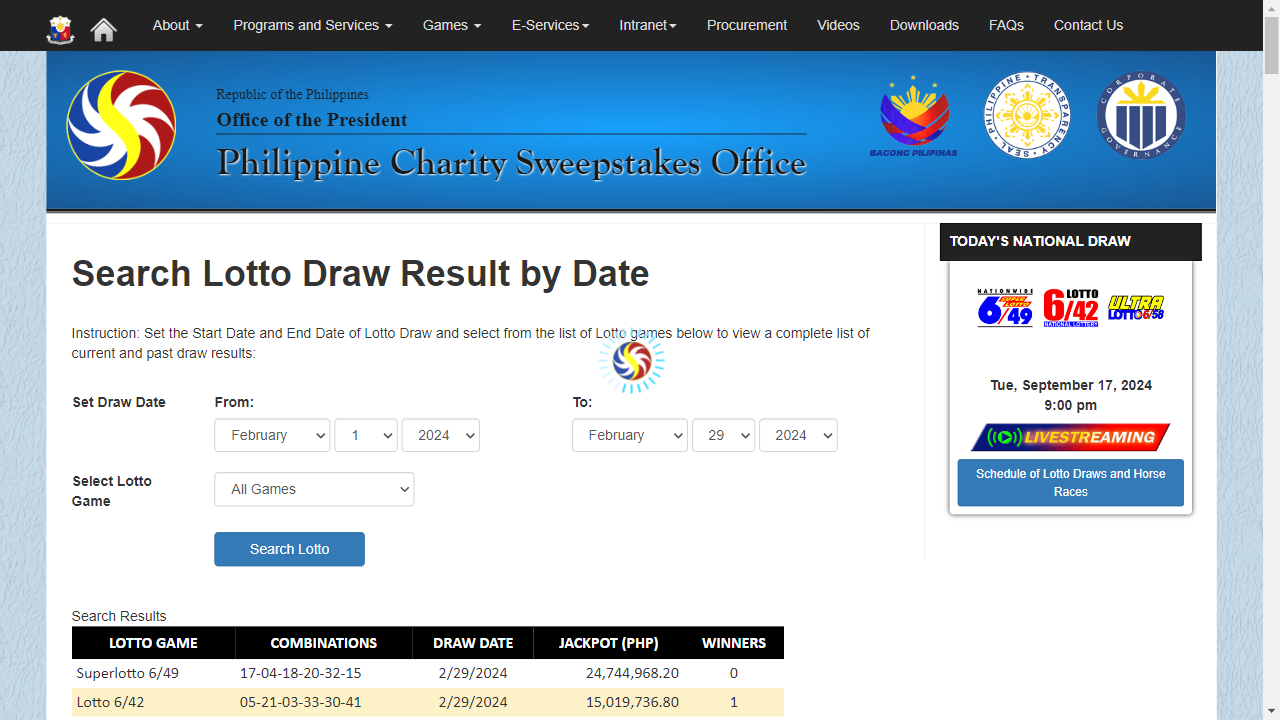
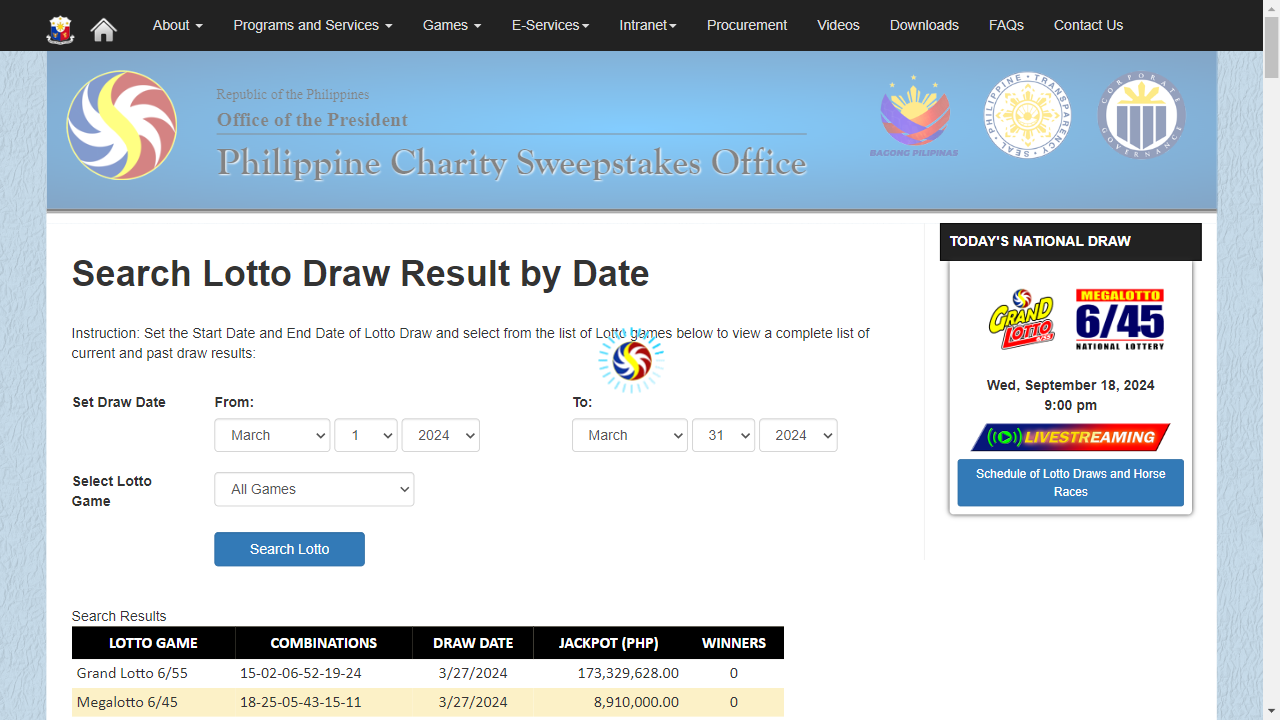
Added upload lotto result on database

diff --git a/extract_previous.py b/extract_previous.py
@@ -1,6 +1,6 @@
 from datetime import date, datetime
 from sqlalchemy.orm import Session
-from databasemanager import RawDrawResults, UploadRecordTable, engine
+from databasemanager import DrawResults, WinningCombinations, engine
 from playwright.sync_api import sync_playwright
 import decimal
 
@@ -45,32 +45,89 @@ def get_result_by_date(date_from: date, date_to: date):
             table.append(row_data)
             
         page.wait_for_timeout(2000)
-        browser.close()
+        browser.close() 
         return table
 
 
-def upload_to_db(table: list): # missing validation on duplicate upload of file.
-    
+def upload_to_db(table: list): 
     with Session(engine) as session:
-        
         for sublist in table:
             game, combinations, draw_date, jackpot, winners = sublist
+            formatted_combination = combinations.split('-')
             
-            lotto_result= RawDrawResults(raw_lotto_game=game,
-                                         raw_combinations = combinations,
-                                         raw_draw_date=datetime.strptime(draw_date, '%m/%d/%Y'),
-                                         raw_jackpot=decimal.Decimal(jackpot.replace(',','')),
-                                         raw_winners=int(winners))
+            # Check if the draw result already exists (based on game and draw date)
+            existing_result = session.query(DrawResults).filter(
+                DrawResults.raw_lotto_game == game,
+                DrawResults.raw_draw_date == datetime.strptime(draw_date, '%m/%d/%Y')
+            ).first()
+
+            if existing_result:
+                print(f"Duplicate entry found for {game} on {draw_date}. Skipping insertion.")
+                continue
+
+            # Create a new DrawResults entry
+            lotto_result = DrawResults(
+                raw_lotto_game=game,
+                raw_draw_date=datetime.strptime(draw_date, '%m/%d/%Y'),
+                raw_jackpot=decimal.Decimal(jackpot.replace(',', '')),
+                raw_winners=int(winners)
+            )
             session.add(lotto_result)
-        
+            session.flush()  # Ensure lotto_result.id is generated before using it
+
+            # Add the winning numbers for the draw
+            for number in formatted_combination:
+                winning_result = WinningCombinations(
+                    lotto_id=lotto_result.id,
+                    draw_number=int(number.rstrip())
+                )
+                session.add(winning_result)
+
+        # Commit the transaction after processing all rows
         session.commit()
+
+
+
+# def upload_to_db(table: list): # missing validation on duplicate upload of file.
+    
+#     with Session(engine) as session:
+        
+#         # winning_combination = []
+#         for sublist in table:
+#             game, combinations, draw_date, jackpot, winners = sublist
+#             formatted_combination = combinations.split('-',)
+#             lotto_result= DrawResults(raw_lotto_game=game,
+#                                          raw_draw_date=datetime.strptime(draw_date, '%m/%d/%Y'),
+#                                          raw_jackpot=decimal.Decimal(jackpot.replace(',','')),
+#                                          raw_winners=int(winners))
+#             session.add(lotto_result)
+            # session.flush()
+#             for number in  formatted_combination:
+#                 winning_result= WinningCombinations(lotto_id = DrawResults.id, draw_number=int(number.rstrip()))
+#                 session.add(winning_result)  
+                
+#             # winning_combination.append(formatted_combination)
+#         # print(winning_combination)
+        
+#         # session.flush() 
+#         # session.refresh(DrawResults)
+#         # for number in winning_combination:
+#         #     for num in number:
+#         #         value= num.rstrip()
+#         #         print(value)
+#         #         winning_result= WinningCombinations(lotto_id = DrawResults.id,draw_number=int(num))
+#         #         session.add(winning_result)
+      
+        
+#         # print(winning_combination)    
+#         session.commit()
     
 
 
 
 
-# test_data =  [['Superlotto 6/49', '17-04-18-20-32-15', '2/29/2024', '24,744,968.20', '0'], ['Lotto 6/42', '05-21-03-33-30-41', '2/29/2024', '15,019,736.80', '1'], ['6D Lotto', '0-0-7-8-1-6      ', '2/29/2024', '6,312,426.24', '0'], ['3D Lotto 2PM', '3-8-2            ', '2/29/2024', '4,500.00', '375'], ['3D Lotto 5PM', '8-8-4            ', '2/29/2024', '4,500.00', '123'], ['3D Lotto 9PM', '4-8-7            ', '2/29/2024', '4,500.00', '515'], ['2D Lotto 2PM', '12-10            ', '2/29/2024', '4,000.00', '230'], ['2D Lotto 5PM', '08-18            ', '2/29/2024', '4,000.00', '528'], ['2D Lotto 9PM', '24-29            ', '2/29/2024', '4,000.00', '400'], ['Grand Lotto 6/55', '49-37-51-36-50-10', '2/28/2024', '88,249,297.40', '0'], ['Megalotto 6/45', '41-35-18-43-33-40', '2/28/2024', '8,910,000.00', '0'], ['4D Lotto', '7-3-2-5          ', '2/28/2024', '13,421.00', '35'], ['3D Lotto 2PM', '7-3-5            ', '2/28/2024', '4,500.00', '204'], ['3D Lotto 5PM', '2-2-7            ', '2/28/2024', '4,500.00', '562'], ['3D Lotto 9PM', '8-6-5            ', '2/28/2024', '4,500.00', '331'], ['2D Lotto 2PM', '26-12            ', '2/28/2024', '4,000.00', '549'], ['2D Lotto 5PM', '18-03            ', '2/28/2024', '4,000.00', '198'], ['2D Lotto 9PM', '30-09            ', '2/28/2024', '4,000.00', '327'], ['Ultra Lotto 6/58', '09-14-37-22-13-20', '2/27/2024', '166,577,603.60', '0'], ['Superlotto 6/49', '19-03-48-31-10-43', '2/27/2024', '20,070,091.60', '0'], ['Lotto 6/42', '41-26-32-40-31-39', '2/27/2024', '10,877,076.20', '0'], ['6D Lotto', '4-0-5-2-9-7      ', '2/27/2024', '5,570,425.80', '0'], ['3D Lotto 2PM', '0-9-7            ', '2/27/2024', '4,500.00', '108'], ['3D Lotto 5PM', '2-9-1            ', '2/27/2024', '4,500.00', '99'], ['3D Lotto 9PM', '3-6-0            ', '2/27/2024', '4,500.00', '602'], ['2D Lotto 2PM', '12-08            ', '2/27/2024', '4,000.00', '406'], ['2D Lotto 5PM', '04-21            ', '2/27/2024', '4,000.00', '275'], ['2D Lotto 9PM', '26-13            ', '2/27/2024', '4,000.00', '236'], ['Grand Lotto 6/55', '22-18-35-39-48-08', '2/26/2024', '82,609,283.80', '0'], ['Megalotto 6/45', '29-07-09-20-03-26', '2/26/2024', '70,879,526.00', '2'], ['4D Lotto', '0-7-1-2          ', '2/26/2024', '10,000.00', '75'], ['3D Lotto 2PM', '0-1-9            ', '2/26/2024', '4,500.00', '495'], ['3D Lotto 5PM', '6-2-5            ', '2/26/2024', '4,500.00', '176'], ['3D Lotto 9PM', '8-9-4            ', '2/26/2024', '4,500.00', '209'], ['2D Lotto 2PM', '25-20            ', '2/26/2024', '4,000.00', '83'], ['2D Lotto 5PM', '03-22            ', '2/26/2024', '4,000.00', '222'], ['2D Lotto 9PM', '13-05            ', '2/26/2024', '4,000.00', '471'], ['Ultra Lotto 6/58', '06-33-48-56-27-35', '2/25/2024', '159,479,545.60', '0'], ['Superlotto 6/49', '20-49-43-46-44-08', '2/25/2024', '16,625,593.40', '0'], ['3D Lotto 2PM', '7-7-7            ', '2/25/2024', '4,500.00', '609'], ['3D Lotto 5PM', '6-8-3            ', '2/25/2024', '4,500.00', '93'], ['3D Lotto 9PM', '6-0-9            ', '2/25/2024', '4,500.00', '499'], ['2D Lotto 2PM', '09-09            ', '2/25/2024', '4,000.00', '970'], ['2D Lotto 5PM', '08-03            ', '2/25/2024', '4,000.00', '231'], ['2D Lotto 9PM', '12-14            ', '2/25/2024', '4,000.00', '467'], ['Grand Lotto 6/55', '42-44-01-24-47-02', '2/24/2024', '77,742,342.40', '0'], ['Lotto 6/42', '32-12-27-40-01-19', '2/24/2024', '7,433,279.40', '0'], ['6D Lotto', '1-7-4-3-8-5      ', '2/24/2024', '4,778,396.84', '0'], ['3D Lotto 2PM', '2-6-7            ', '2/24/2024', '4,500.00', '206'], ['3D Lotto 5PM', '0-4-5            ', '2/24/2024', '4,500.00', '163'], ['3D Lotto 9PM', '3-4-3            ', '2/24/2024', '4,500.00', '292'], ['2D Lotto 2PM', '31-05            ', '2/24/2024', '4,000.00', '165'], ['2D Lotto 5PM', '04-24            ', '2/24/2024', '4,000.00', '448'], ['2D Lotto 9PM', '12-06            ', '2/24/2024', '4,000.00', '446'], ['Ultra Lotto 6/58', '29-55-36-58-10-50', '2/23/2024', '151,920,834.00', '0'], ['Megalotto 6/45', '33-27-29-26-45-04', '2/23/2024', '64,871,617.60', '0'], ['4D Lotto', '0-1-6-2          ', '2/23/2024', '139,582.00', '7'], ['3D Lotto 2PM', '9-1-2            ', '2/23/2024', '4,500.00', '367'], ['3D Lotto 5PM', '1-1-9            ', '2/23/2024', '4,500.00', '607'], ['3D Lotto 9PM', '3-5-7            ', '2/23/2024', '4,500.00', '628'], ['2D Lotto 2PM', '21-02            ', '2/23/2024', '4,000.00', '105'], ['2D Lotto 5PM', '08-05            ', '2/23/2024', '4,000.00', '275'], ['2D Lotto 9PM', '01-20            ', '2/23/2024', '4,000.00', '599'], ['Superlotto 6/49', '36-11-06-46-16-17', '2/22/2024', '15,840,000.00', '0'], ['Lotto 6/42', '05-21-17-36-22-07', '2/22/2024', '5,940,000.00', '0'], ['6D Lotto', '3-5-9-8-5-1      ', '2/22/2024', '3,991,579.08', '0'], ['3D Lotto 2PM', '3-2-2            ', '2/22/2024', '4,500.00', '252'], ['3D Lotto 5PM', '6-2-7            ', '2/22/2024', '4,500.00', '245'], ['3D Lotto 9PM', '9-7-3            ', '2/22/2024', '4,500.00', '245'], ['2D Lotto 2PM', '07-18            ', '2/22/2024', '4,000.00', '325'], ['2D Lotto 5PM', '15-24            ', '2/22/2024', '4,000.00', '173'], ['2D Lotto 9PM', '04-14            ', '2/22/2024', '4,000.00', '974'], ['Grand Lotto 6/55', '15-08-02-49-50-45', '2/21/2024', '72,157,497.80', '0'], ['Megalotto 6/45', '04-06-05-12-28-22', '2/21/2024', '59,088,473.80', '0'], ['4D Lotto', '2-0-7-6          ', '2/21/2024', '39,422.00', '26'], ['3D Lotto 2PM', '3-2-2            ', '2/21/2024', '4,500.00', '395'], ['3D Lotto 5PM', '7-1-3            ', '2/21/2024', '4,500.00', '169'], ['3D Lotto 9PM', '9-4-9            ', '2/21/2024', '4,500.00', '285'], ['2D Lotto 2PM', '02-10            ', '2/21/2024', '4,000.00', '816'], ['2D Lotto 5PM', '05-06            ', '2/21/2024', '4,000.00', '272'], ['2D Lotto 9PM', '11-04            ', '2/21/2024', '4,000.00', '703'], ['Ultra Lotto 6/58', '43-08-32-01-10-42', '2/20/2024', '144,244,941.60', '0'], ['Superlotto 6/49', '23-02-05-40-26-33', '2/20/2024', '15,840,000.00', '0'], ['Lotto 6/42', '22-17-01-29-11-16', '2/20/2024', '10,990,641.60', '1'], ['6D Lotto', '7-2-5-8-8-5      ', '2/20/2024', '3,104,678.72', '0'], ['3D Lotto 2PM', '7-2-9            ', '2/20/2024', '4,500.00', '637'], ['3D Lotto 5PM', '8-2-9            ', '2/20/2024', '4,500.00', '307'], ['3D Lotto 9PM', '5-1-5            ', '2/20/2024', '4,500.00', '620'], ['2D Lotto 2PM', '20-22            ', '2/20/2024', '4,000.00', '296'], ['2D Lotto 5PM', '11-14            ', '2/20/2024', '4,000.00', '267'], ['2D Lotto 9PM', '30-16            ', '2/20/2024', '4,000.00', '117'], ['Grand Lotto 6/55', '27-55-48-54-31-03', '2/19/2024', '67,274,931.60', '0'], ['Megalotto 6/45', '18-36-11-19-05-04', '2/19/2024', '53,341,620.40', '0'], ['4D Lotto', '3-4-6-0          ', '2/19/2024', '61,397.00', '15'], ['3D Lotto 2PM', '3-8-9            ', '2/19/2024', '4,500.00', '199'], ['3D Lotto 5PM', '4-9-4            ', '2/19/2024', '4,500.00', '141'], ['3D Lotto 9PM', '2-5-6            ', '2/19/2024', '4,500.00', '602'], ['2D Lotto 2PM', '28-15            ', '2/19/2024', '4,000.00', '93'], ['2D Lotto 5PM', '05-15            ', '2/19/2024', '4,000.00', '266'], ['2D Lotto 9PM', '03-01            ', '2/19/2024', '4,000.00', '634'], ['Ultra Lotto 6/58', '55-01-20-03-58-10', '2/18/2024', '137,271,570.80', '0'], ['Superlotto 6/49', '19-28-09-49-48-25', '2/18/2024', '15,840,000.00', '0'], ['3D Lotto 2PM', '5-8-2            ', '2/18/2024', '4,500.00', '235'], ['3D Lotto 5PM', '1-0-3            ', '2/18/2024', '4,500.00', '262'], ['3D Lotto 9PM', '2-4-5            ', '2/18/2024', '4,500.00', '610'], ['2D Lotto 2PM', '26-22            ', '2/18/2024', '4,000.00', '130'], ['2D Lotto 5PM', '31-06            ', '2/18/2024', '4,000.00', '53'], ['2D Lotto 9PM', '25-08            ', '2/18/2024', '4,000.00', '369'], ['Grand Lotto 6/55', '07-46-14-54-30-44', '2/17/2024', '62,425,096.00', '0'], ['Lotto 6/42', '29-14-13-05-09-18', '2/17/2024', '7,488,195.20', '0'], ['6D Lotto', '2-0-6-5-5-4      ', '2/17/2024', '2,602,804.84', '0'], ['3D Lotto 2PM', '4-9-6            ', '2/17/2024', '4,500.00', '121'], ['3D Lotto 5PM', '6-1-8            ', '2/17/2024', '4,500.00', '359'], ['3D Lotto 9PM', '1-7-8            ', '2/17/2024', '4,500.00', '602'], ['2D Lotto 2PM', '03-03            ', '2/17/2024', '4,000.00', '947'], ['2D Lotto 5PM', '07-05            ', '2/17/2024', '4,000.00', '351'], ['2D Lotto 9PM', '22-03            ', '2/17/2024', '4,000.00', '330'], ['Ultra Lotto 6/58', '29-03-07-11-17-58', '2/16/2024', '129,732,562.40', '0'], ['Megalotto 6/45', '14-42-03-31-41-11', '2/16/2024', '47,590,816.20', '0'], ['4D Lotto', '4-9-2-4          ', '2/16/2024', '16,810.00', '24'], ['3D Lotto 2PM', '5-5-5            ', '2/16/2024', '4,500.00', '646'], ['3D Lotto 5PM', '4-6-8            ', '2/16/2024', '4,500.00', '305'], ['3D Lotto 9PM', '8-7-0            ', '2/16/2024', '4,500.00', '273'], ['2D Lotto 2PM', '19-12            ', '2/16/2024', '4,000.00', '190'], ['2D Lotto 5PM', '06-14            ', '2/16/2024', '4,000.00', '150'], ['2D Lotto 9PM', '20-11            ', '2/16/2024', '4,000.00', '319'], ['Superlotto 6/49', '19-10-08-24-20-13', '2/15/2024', '64,105,266.60', '1'], ['Lotto 6/42', '09-38-28-22-04-20', '2/15/2024', '5,940,000.00', '0'], ['6D Lotto', '3-7-5-0-2-5      ', '2/15/2024', '2,023,034.64', '0']]
-
-table = get_result_by_date(date(2024, 3, 1), date(2024, 3, 5))
-upload_to_db(table=table)
-
+test_data =  [['Superlotto 6/49', '17-04-18-20-32-15', '2/29/2024', '24,744,968.20', '0'], ['Lotto 6/42', '05-21-03-33-30-41', '2/29/2024', '15,019,736.80', '1'], ['6D Lotto', '0-0-7-8-1-6      ', '2/29/2024', '6,312,426.24', '0'], ['3D Lotto 2PM', '3-8-2            ', '2/29/2024', '4,500.00', '375'], ['3D Lotto 5PM', '8-8-4            ', '2/29/2024', '4,500.00', '123'], ['3D Lotto 9PM', '4-8-7            ', '2/29/2024', '4,500.00', '515'], ['2D Lotto 2PM', '12-10            ', '2/29/2024', '4,000.00', '230'], ['2D Lotto 5PM', '08-18            ', '2/29/2024', '4,000.00', '528'], ['2D Lotto 9PM', '24-29            ', '2/29/2024', '4,000.00', '400'], ['Grand Lotto 6/55', '49-37-51-36-50-10', '2/28/2024', '88,249,297.40', '0'], ['Megalotto 6/45', '41-35-18-43-33-40', '2/28/2024', '8,910,000.00', '0'], ['4D Lotto', '7-3-2-5          ', '2/28/2024', '13,421.00', '35'], ['3D Lotto 2PM', '7-3-5            ', '2/28/2024', '4,500.00', '204'], ['3D Lotto 5PM', '2-2-7            ', '2/28/2024', '4,500.00', '562'], ['3D Lotto 9PM', '8-6-5            ', '2/28/2024', '4,500.00', '331'], ['2D Lotto 2PM', '26-12            ', '2/28/2024', '4,000.00', '549'], ['2D Lotto 5PM', '18-03            ', '2/28/2024', '4,000.00', '198'], ['2D Lotto 9PM', '30-09            ', '2/28/2024', '4,000.00', '327'], ['Ultra Lotto 6/58', '09-14-37-22-13-20', '2/27/2024', '166,577,603.60', '0'], ['Superlotto 6/49', '19-03-48-31-10-43', '2/27/2024', '20,070,091.60', '0'], ['Lotto 6/42', '41-26-32-40-31-39', '2/27/2024', '10,877,076.20', '0'], ['6D Lotto', '4-0-5-2-9-7      ', '2/27/2024', '5,570,425.80', '0'], ['3D Lotto 2PM', '0-9-7            ', '2/27/2024', '4,500.00', '108'], ['3D Lotto 5PM', '2-9-1            ', '2/27/2024', '4,500.00', '99'], ['3D Lotto 9PM', '3-6-0            ', '2/27/2024', '4,500.00', '602'], ['2D Lotto 2PM', '12-08            ', '2/27/2024', '4,000.00', '406'], ['2D Lotto 5PM', '04-21            ', '2/27/2024', '4,000.00', '275'], ['2D Lotto 9PM', '26-13            ', '2/27/2024', '4,000.00', '236'], ['Grand Lotto 6/55', '22-18-35-39-48-08', '2/26/2024', '82,609,283.80', '0'], ['Megalotto 6/45', '29-07-09-20-03-26', '2/26/2024', '70,879,526.00', '2'], ['4D Lotto', '0-7-1-2          ', '2/26/2024', '10,000.00', '75'], ['3D Lotto 2PM', '0-1-9            ', '2/26/2024', '4,500.00', '495'], ['3D Lotto 5PM', '6-2-5            ', '2/26/2024', '4,500.00', '176'], ['3D Lotto 9PM', '8-9-4            ', '2/26/2024', '4,500.00', '209'], ['2D Lotto 2PM', '25-20            ', '2/26/2024', '4,000.00', '83'], ['2D Lotto 5PM', '03-22            ', '2/26/2024', '4,000.00', '222'], ['2D Lotto 9PM', '13-05            ', '2/26/2024', '4,000.00', '471'], ['Ultra Lotto 6/58', '06-33-48-56-27-35', '2/25/2024', '159,479,545.60', '0'], ['Superlotto 6/49', '20-49-43-46-44-08', '2/25/2024', '16,625,593.40', '0'], ['3D Lotto 2PM', '7-7-7            ', '2/25/2024', '4,500.00', '609'], ['3D Lotto 5PM', '6-8-3            ', '2/25/2024', '4,500.00', '93'], ['3D Lotto 9PM', '6-0-9            ', '2/25/2024', '4,500.00', '499'], ['2D Lotto 2PM', '09-09            ', '2/25/2024', '4,000.00', '970'], ['2D Lotto 5PM', '08-03            ', '2/25/2024', '4,000.00', '231'], ['2D Lotto 9PM', '12-14            ', '2/25/2024', '4,000.00', '467'], ['Grand Lotto 6/55', '42-44-01-24-47-02', '2/24/2024', '77,742,342.40', '0'], ['Lotto 6/42', '32-12-27-40-01-19', '2/24/2024', '7,433,279.40', '0'], ['6D Lotto', '1-7-4-3-8-5      ', '2/24/2024', '4,778,396.84', '0'], ['3D Lotto 2PM', '2-6-7            ', '2/24/2024', '4,500.00', '206'], ['3D Lotto 5PM', '0-4-5            ', '2/24/2024', '4,500.00', '163'], ['3D Lotto 9PM', '3-4-3            ', '2/24/2024', '4,500.00', '292'], ['2D Lotto 2PM', '31-05            ', '2/24/2024', '4,000.00', '165'], ['2D Lotto 5PM', '04-24            ', '2/24/2024', '4,000.00', '448'], ['2D Lotto 9PM', '12-06            ', '2/24/2024', '4,000.00', '446'], ['Ultra Lotto 6/58', '29-55-36-58-10-50', '2/23/2024', '151,920,834.00', '0'], ['Megalotto 6/45', '33-27-29-26-45-04', '2/23/2024', '64,871,617.60', '0'], ['4D Lotto', '0-1-6-2          ', '2/23/2024', '139,582.00', '7'], ['3D Lotto 2PM', '9-1-2            ', '2/23/2024', '4,500.00', '367'], ['3D Lotto 5PM', '1-1-9            ', '2/23/2024', '4,500.00', '607'], ['3D Lotto 9PM', '3-5-7            ', '2/23/2024', '4,500.00', '628'], ['2D Lotto 2PM', '21-02            ', '2/23/2024', '4,000.00', '105'], ['2D Lotto 5PM', '08-05            ', '2/23/2024', '4,000.00', '275'], ['2D Lotto 9PM', '01-20            ', '2/23/2024', '4,000.00', '599'], ['Superlotto 6/49', '36-11-06-46-16-17', '2/22/2024', '15,840,000.00', '0'], ['Lotto 6/42', '05-21-17-36-22-07', '2/22/2024', '5,940,000.00', '0'], ['6D Lotto', '3-5-9-8-5-1      ', '2/22/2024', '3,991,579.08', '0'], ['3D Lotto 2PM', '3-2-2            ', '2/22/2024', '4,500.00', '252'], ['3D Lotto 5PM', '6-2-7            ', '2/22/2024', '4,500.00', '245'], ['3D Lotto 9PM', '9-7-3            ', '2/22/2024', '4,500.00', '245'], ['2D Lotto 2PM', '07-18            ', '2/22/2024', '4,000.00', '325'], ['2D Lotto 5PM', '15-24            ', '2/22/2024', '4,000.00', '173'], ['2D Lotto 9PM', '04-14            ', '2/22/2024', '4,000.00', '974'], ['Grand Lotto 6/55', '15-08-02-49-50-45', '2/21/2024', '72,157,497.80', '0'], ['Megalotto 6/45', '04-06-05-12-28-22', '2/21/2024', '59,088,473.80', '0'], ['4D Lotto', '2-0-7-6          ', '2/21/2024', '39,422.00', '26'], ['3D Lotto 2PM', '3-2-2            ', '2/21/2024', '4,500.00', '395'], ['3D Lotto 5PM', '7-1-3            ', '2/21/2024', '4,500.00', '169'], ['3D Lotto 9PM', '9-4-9            ', '2/21/2024', '4,500.00', '285'], ['2D Lotto 2PM', '02-10            ', '2/21/2024', '4,000.00', '816'], ['2D Lotto 5PM', '05-06            ', '2/21/2024', '4,000.00', '272'], ['2D Lotto 9PM', '11-04            ', '2/21/2024', '4,000.00', '703'], ['Ultra Lotto 6/58', '43-08-32-01-10-42', '2/20/2024', '144,244,941.60', '0'], ['Superlotto 6/49', '23-02-05-40-26-33', '2/20/2024', '15,840,000.00', '0'], ['Lotto 6/42', '22-17-01-29-11-16', '2/20/2024', '10,990,641.60', '1'], ['6D Lotto', '7-2-5-8-8-5      ', '2/20/2024', '3,104,678.72', '0'], ['3D Lotto 2PM', '7-2-9            ', '2/20/2024', '4,500.00', '637'], ['3D Lotto 5PM', '8-2-9            ', '2/20/2024', '4,500.00', '307'], ['3D Lotto 9PM', '5-1-5            ', '2/20/2024', '4,500.00', '620'], ['2D Lotto 2PM', '20-22            ', '2/20/2024', '4,000.00', '296'], ['2D Lotto 5PM', '11-14            ', '2/20/2024', '4,000.00', '267'], ['2D Lotto 9PM', '30-16            ', '2/20/2024', '4,000.00', '117'], ['Grand Lotto 6/55', '27-55-48-54-31-03', '2/19/2024', '67,274,931.60', '0'], ['Megalotto 6/45', '18-36-11-19-05-04', '2/19/2024', '53,341,620.40', '0'], ['4D Lotto', '3-4-6-0          ', '2/19/2024', '61,397.00', '15'], ['3D Lotto 2PM', '3-8-9            ', '2/19/2024', '4,500.00', '199'], ['3D Lotto 5PM', '4-9-4            ', '2/19/2024', '4,500.00', '141'], ['3D Lotto 9PM', '2-5-6            ', '2/19/2024', '4,500.00', '602'], ['2D Lotto 2PM', '28-15            ', '2/19/2024', '4,000.00', '93'], ['2D Lotto 5PM', '05-15            ', '2/19/2024', '4,000.00', '266'], ['2D Lotto 9PM', '03-01            ', '2/19/2024', '4,000.00', '634'], ['Ultra Lotto 6/58', '55-01-20-03-58-10', '2/18/2024', '137,271,570.80', '0'], ['Superlotto 6/49', '19-28-09-49-48-25', '2/18/2024', '15,840,000.00', '0'], ['3D Lotto 2PM', '5-8-2            ', '2/18/2024', '4,500.00', '235'], ['3D Lotto 5PM', '1-0-3            ', '2/18/2024', '4,500.00', '262'], ['3D Lotto 9PM', '2-4-5            ', '2/18/2024', '4,500.00', '610'], ['2D Lotto 2PM', '26-22            ', '2/18/2024', '4,000.00', '130'], ['2D Lotto 5PM', '31-06            ', '2/18/2024', '4,000.00', '53'], ['2D Lotto 9PM', '25-08            ', '2/18/2024', '4,000.00', '369'], ['Grand Lotto 6/55', '07-46-14-54-30-44', '2/17/2024', '62,425,096.00', '0'], ['Lotto 6/42', '29-14-13-05-09-18', '2/17/2024', '7,488,195.20', '0'], ['6D Lotto', '2-0-6-5-5-4      ', '2/17/2024', '2,602,804.84', '0'], ['3D Lotto 2PM', '4-9-6            ', '2/17/2024', '4,500.00', '121'], ['3D Lotto 5PM', '6-1-8            ', '2/17/2024', '4,500.00', '359'], ['3D Lotto 9PM', '1-7-8            ', '2/17/2024', '4,500.00', '602'], ['2D Lotto 2PM', '03-03            ', '2/17/2024', '4,000.00', '947'], ['2D Lotto 5PM', '07-05            ', '2/17/2024', '4,000.00', '351'], ['2D Lotto 9PM', '22-03            ', '2/17/2024', '4,000.00', '330'], ['Ultra Lotto 6/58', '29-03-07-11-17-58', '2/16/2024', '129,732,562.40', '0'], ['Megalotto 6/45', '14-42-03-31-41-11', '2/16/2024', '47,590,816.20', '0'], ['4D Lotto', '4-9-2-4          ', '2/16/2024', '16,810.00', '24'], ['3D Lotto 2PM', '5-5-5            ', '2/16/2024', '4,500.00', '646'], ['3D Lotto 5PM', '4-6-8            ', '2/16/2024', '4,500.00', '305'], ['3D Lotto 9PM', '8-7-0            ', '2/16/2024', '4,500.00', '273'], ['2D Lotto 2PM', '19-12            ', '2/16/2024', '4,000.00', '190'], ['2D Lotto 5PM', '06-14            ', '2/16/2024', '4,000.00', '150'], ['2D Lotto 9PM', '20-11            ', '2/16/2024', '4,000.00', '319'], ['Superlotto 6/49', '19-10-08-24-20-13', '2/15/2024', '64,105,266.60', '1'], ['Lotto 6/42', '09-38-28-22-04-20', '2/15/2024', '5,940,000.00', '0'], ['6D Lotto', '3-7-5-0-2-5      ', '2/15/2024', '2,023,034.64', '0']]
+# test_data1 = [['55', '52', '53', '58', '45', '42'], ['13', '20', '06', '37', '40', '39'], ['03', '24', '40', '18', '35', '41'], ['3', '7', '7', '5', '0', '1      '], ['9', '0', '2            '], ['8', '6', '6            '], ['6', '7', '1            '], ['01', '14            '], ['14', '19            '], ['15', '27            '], ['07', '31', '49', '33', '32', '40'], ['23', '28', '24', '40', '35', '44'], ['3', '1', '4', '6          '], ['8', '3', '4            '], ['8', '3', '9            '], ['4', '0', '5            '], ['23', '19            '], ['01', '23            '], ['14', '07            '], ['56', '57', '24', '09', '30', '31'], ['02', '40', '03', '36', '49', '14'], ['0', '8', '2            '], ['5', '9', '3            '], ['9', '6', '8            '], ['29', '24            '], ['07', '05            '], ['01', '07            '], ['32', '25', '16', '36', '33', '29'], ['17', '02', '04', '03', '36', '35'], ['8', '9', '4', '9', '9', '7      '], ['2', '3', '3            '], ['2', '1', '4            '], ['5', '8', '8            '], ['10', '26            '], ['18', '29            '], ['09', '12            '], ['04', '07', '57', '05', '54', '47'], ['15', '08', '17', '24', '31', '12'], ['3', '1', '7', '5          '], ['2', '8', '3            '], ['4', '4', '5            '], ['8', '7', '0            '], ['31', '24            '], ['25', '26            '], ['21', '20            ']]
+table = get_result_by_date(date(2024, 3, 1), date(2024, 3, 31))
+upload_to_db(table=table)   
+ 

diff --git a/databasemanager.py b/databasemanager.py
@@ -8,32 +8,10 @@ engine = create_engine('postgresql+psycopg2://postgres:Workeye29@localhost/PCSO_
 
 Base = declarative_base()
 
-class LottoTable(Base):
-    __tablename__= 'lotto_table'
-    id = Column(UUID(as_uuid=True),  default=uuid.uuid4 , primary_key=True)
-    game = Column(String)
-    jackpot_amount = Column(DECIMAL,nullable=False)
-    draw_date = Column(Date)
-    number_of_winners = Column(Integer,  nullable = True)
-    
-    __table_args__ = (
-        UniqueConstraint(game, draw_date, name = "unique_draw_date"),
-        {})
-
-class WinningNumbers(Base):
-    __tablename__= 'winning_numbers'
-    lotto_id = Column(UUID ,ForeignKey('lotto_table.id'))
-    draw_number = Column(Integer)
-    
-    __table_args__ = (
-        PrimaryKeyConstraint(lotto_id,draw_number),
-        {})
-
-class RawDrawResults(Base):
-    __tablename__='raw_draw_result'
+class DrawResults(Base):
+    __tablename__='draw_results'
     id = Column(UUID(as_uuid=True),  default=uuid.uuid4 , primary_key=True)
     raw_lotto_game = Column(String)
-    raw_combinations = Column(String)
     raw_draw_date = Column(Date)
     raw_jackpot = Column(DECIMAL)
     raw_winners = Column(Integer)
@@ -43,9 +21,12 @@ class RawDrawResults(Base):
         {})
 
 
-class UploadRecordTable(Base):
-    __tablename__='upload_record_table'
-    upload_date = Column(String, primary_key=True)
+class WinningCombinations(Base):
+    __tablename__='winning_combination'
+    id = Column(UUID(as_uuid=True),  default=uuid.uuid4 , primary_key=True)
+    lotto_id = Column(UUID(as_uuid=True) ,ForeignKey('draw_results.id'))
+    draw_number = Column(Integer)
+    
     
         
     
